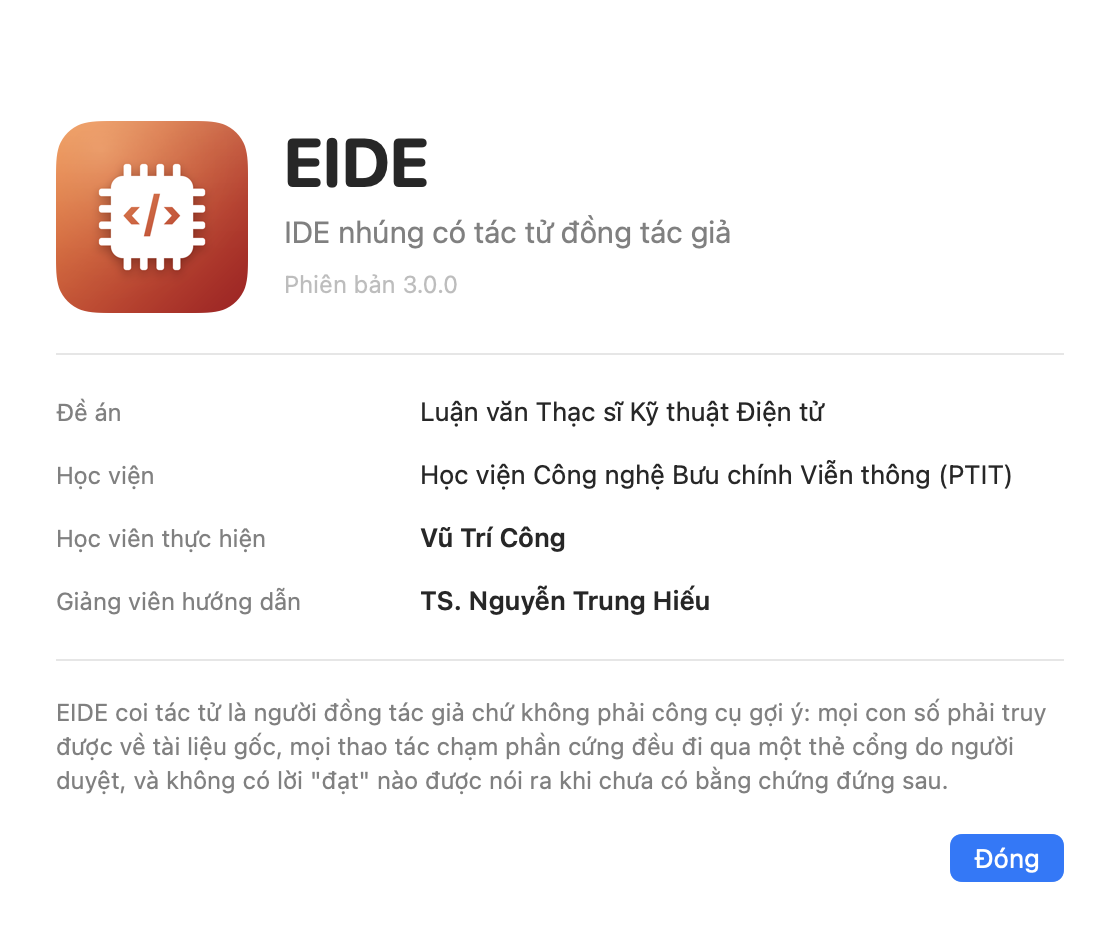
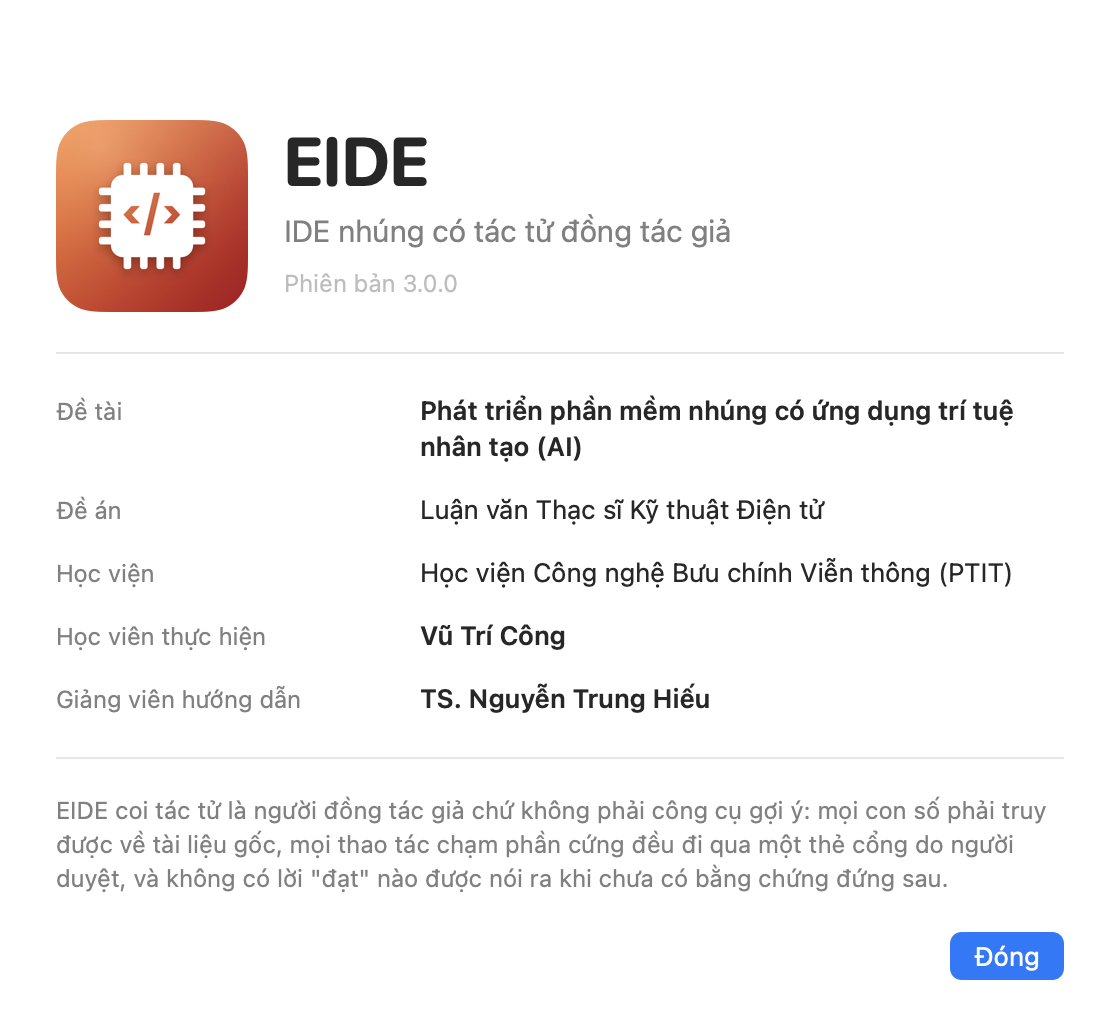
Tên đề tài vào toàn bộ hồ sơ: "Phát triển phần mềm nhúng có ứng dụng trí tuệ nhân tạo (AI)"
Bo mạch đã mang tên này từ trước (firmware/ui.c hiện nó trên màn LCD). Thứ tụt
lại là hồ sơ trong git: README, chín tài liệu thiết kế, bảng Giới thiệu của app,
Info.plist — 15 chỗ, mỗi chỗ một dạng phù hợp.

Bản chụp firmware trong docs/ đã cũ đúng chỗ quan trọng: nó còn giữ tên đề tài
trước ("Nghien cuu & Trien khai EIDE Agent tren Bo STM32F469I-Discovery") và một
lỗi chính tả đã sửa trên bo (DO AN → DE AN TOT NGHIEP). Đây đúng loại lệch mà
du-lieu/ bị gitignore sinh ra: thứ chạy thật và thứ được cất giữ trôi khỏi nhau
trong im lặng. Đã chép lại từ chính mã đang chạy, kèm mach.bin hiện tại.

Một chỗ tự quyết: anh viết "NHÂN TẠO(AI)" dính; trong hồ sơ tôi viết "nhân tạo
(AI)" có dấu cách theo lối thường của tiếng Việt. Muốn giữ dạng dính thì sửa một
lệnh.

1252 ca đơn vị. Bộ dò tài liệu: 0 chỗ lệch chắc chắn.

diff --git a/ui/EIDEApp/Sources/EIDE/Views/GioiThieuView.swift b/ui/EIDEApp/Sources/EIDE/Views/GioiThieuView.swift
@@ -39,6 +39,7 @@ struct GioiThieuView: View {
             Divider()
 
             VStack(alignment: .leading, spacing: 14) {
+                dong_muc("Đề tài", "Phát triển phần mềm nhúng có ứng dụng trí tuệ nhân tạo (AI)", nhan_manh: true)
                 dong_muc("Đề án", "Luận văn Thạc sĩ Kỹ thuật Điện tử")
                 dong_muc("Học viện", "Học viện Công nghệ Bưu chính Viễn thông (PTIT)")
                 dong_muc("Học viên thực hiện", "Vũ Trí Công", nhan_manh: true)

diff --git a/docs/stm32f469-freertos/firmware-chay-duoc/ui.c b/docs/stm32f469-freertos/firmware-chay-duoc/ui.c
@@ -91,13 +91,13 @@ void UI_ShowMainScreen(void)
 
     BSP_LCD_SetTextColor(LCD_COLOR_DARKBLUE);
     BSP_LCD_SetFont(&Font20);
-    BSP_LCD_DisplayStringAt(300, 130, (uint8_t *)"DO AN TOT NGHIEP", LEFT_MODE);
+    BSP_LCD_DisplayStringAt(300, 130, (uint8_t *)"DE AN TOT NGHIEP", LEFT_MODE);
     BSP_LCD_DisplayStringAt(300, 160, (uint8_t *)"HE THONG TAC TU EIDE v3", LEFT_MODE);
 
     BSP_LCD_SetTextColor(LCD_COLOR_BLACK);
     BSP_LCD_SetFont(&Font16);
-    BSP_LCD_DisplayStringAt(300, 210, (uint8_t *)"DT: Nghien cuu & Trien khai EIDE Agent", LEFT_MODE);
-    BSP_LCD_DisplayStringAt(300, 240, (uint8_t *)"tren Bo STM32F469I-Discovery", LEFT_MODE);
+    BSP_LCD_DisplayStringAt(300, 210, (uint8_t *)"DT: PHAT TRIEN PHAN MEM NHUNG", LEFT_MODE);
+    BSP_LCD_DisplayStringAt(300, 240, (uint8_t *)"CO UNG DUNG TRI TUE NHAN TAO(AI)", LEFT_MODE);
     BSP_LCD_DisplayStringAt(300, 280, (uint8_t *)"Hoc vien  : Vu Tri Cong", LEFT_MODE);
     BSP_LCD_DisplayStringAt(300, 310, (uint8_t *)"GVHD      : TS. Nguyen Trung Hieu", LEFT_MODE);
 

diff --git a/docs/md/EIDE-DEV-LOG.md b/docs/md/EIDE-DEV-LOG.md
@@ -4878,3 +4878,43 @@ nào đang mở thì chưa có lõi nào đang chạy để mà gửi `HumanAct`
 
 `1252 ca đơn vị` (+6): `tests/test_goi_du_an.py`. Gồm ca cho con lặp tự-gói-chính-mình, ca
 chặn `../` thoát ra ngoài, và ca từ chối nhập đè lên một dự án đang có.
+
+### [DEV-299] 29/09/2026 · Tên đề tài vào toàn bộ hồ sơ
+
+**Tên đề tài:** *Phát triển phần mềm nhúng có ứng dụng trí tuệ nhân tạo (AI)*
+
+Bo mạch **đã mang tên này** từ trước — `firmware/ui.c` hiện `DT: PHAT TRIEN PHAN MEM NHUNG /
+CO UNG DUNG TRI TUE NHAN TAO(AI)` trên màn LCD. Thứ tụt lại là hồ sơ trong git: README, chín
+tài liệu thiết kế, bảng Giới thiệu của app, và `Info.plist`.
+
+Đưa vào **15 chỗ**, mỗi chỗ một dạng phù hợp: README có dòng riêng; tài liệu thiết kế thêm một
+hàng `**Đề tài**` ngay trên hàng `**Khung**`; bảng Giới thiệu có một dòng in đậm đứng đầu;
+`Info.plist` ghi trong `NSHumanReadableCopyright`.
+
+#### Bản chụp firmware trong `docs/` đã cũ, và cũ đúng chỗ quan trọng
+
+`docs/stm32f469-freertos/firmware-chay-duoc/ui.c` vẫn giữ tên đề tài **trước đó**:
+
+```
+-   "DT: PHAT TRIEN PHAN MEM NHUNG"          ← đang chạy trên bo
+-   "CO UNG DUNG TRI TUE NHAN TAO(AI)"
++   "DT: Nghien cuu & Trien khai EIDE Agent"  ← bản chụp trong git
++   "tren Bo STM32F469I-Discovery"
+```
+
+Và cả một lỗi chính tả đã sửa trên bo mà bản chụp còn giữ: `DO AN TOT NGHIEP` → `DE AN TOT
+NGHIEP`.
+
+Đây đúng loại lệch mà `du-lieu/` bị gitignore sinh ra: thứ chạy thật và thứ được cất giữ trôi
+khỏi nhau trong im lặng. Bản chụp mới chép từ chính mã đang chạy, kèm `mach.bin` hiện tại.
+
+#### Một chỗ tôi tự quyết, nói ra để anh sửa nếu không đúng ý
+
+Anh viết `TRÍ TUỆ NHÂN TẠO(AI)` — dính, không dấu cách. Trên màn LCD cũng vậy, nhưng ở đó là
+phông cố định và chỗ hẹp. Trong hồ sơ tôi viết **`trí tuệ nhân tạo (AI)`** có dấu cách, theo
+lối thường của tiếng Việt. Nếu anh muốn giữ đúng dạng dính thì nói, sửa một lệnh.
+
+### Số đo
+
+`1252 ca đơn vị` (không đổi — chặng này là hồ sơ). Bộ dò tài liệu: **0 chỗ lệch chắc chắn**.
+Bảng Giới thiệu đã chụp lại bằng chính app: `docs/anh/gioi-thieu-eide.png`.

diff --git a/docs/md/EIDE-ING-43_Duong_ong_Nap_Tai_lieu_va_Trich_xuat.md b/docs/md/EIDE-ING-43_Duong_ong_Nap_Tai_lieu_va_Trich_xuat.md
@@ -9,6 +9,7 @@
 | **Mã tài liệu**   | EIDE-ING-43 (Ingest & Extraction) v1.0                                                                                                                                                                                                                                    |
 | **Quan hệ**       | Chi tiết hoá mục C3 "Luồng nạp tài liệu và phê duyệt" và công cụ ingest.file / fact.extract của MDD-40 v3.0; sửa lỗi bỏ sót định dạng Office (docx/xlsx/pptx) và các định dạng EDA/vendor; bổ sung yêu cầu ING-01…ING-20 vào danh mục yêu cầu và khối A3.6 vào mô hình UI |
 | **Ngày**          | 25/09/2026                                                                                                                                                                                                                                                                |
+| **Đề tài**          | PHÁT TRIỂN PHẦN MỀM NHÚNG CÓ ỨNG DỤNG TRÍ TUỆ NHÂN TẠO (AI)                                |
 | **Khung**         | Đề án tốt nghiệp Thạc sĩ ngành Kỹ thuật Điện tử — PTIT · Người hướng dẫn: TS. Nguyễn Trung Hiếu                                                                                                                                                                           |
 | **Tác giả**       | Vũ Trí Công                                                                                                                                                                                                                                                               |
 | **Bằng chứng đo** | TC010 (không tìm được datasheet), TC011 (hai phiên bản), TC014 (prompt injection trong tài liệu), TC023/025/026 (netlist/Altium/tệp hỏng bị nhận là tệp nén), TC044 (scan mờ), TC062 (BOM ≠ netlist), TC070 (script)                                                      |

diff --git a/docs/md/EIDE-MEM-42_Quan_ly_Bo_nho_va_Nen_Bo_nho.md b/docs/md/EIDE-MEM-42_Quan_ly_Bo_nho_va_Nen_Bo_nho.md
@@ -9,6 +9,7 @@ Năm tầng bộ nhớ · ngân sách ngữ cảnh · quản lý theo lượt ·
 | **Mã tài liệu**    | EIDE-MEM-42 (Memory Architecture & Compaction) v1.0                                                                                                                                                                                   |
 | **Quan hệ**        | Chi tiết hoá và thay thế mục B6 "Bộ nhớ và nén ngữ cảnh" của EIDE-MDD-40 v3.0; bổ sung yêu cầu MEM-01…MEM-24 vào danh mục yêu cầu và khối A14.6 vào mô hình UI (ui_model.py)                                                          |
 | **Ngày**           | 25/09/2026                                                                                                                                                                                                                            |
+| **Đề tài**          | PHÁT TRIỂN PHẦN MỀM NHÚNG CÓ ỨNG DỤNG TRÍ TUỆ NHÂN TẠO (AI)                                |
 | **Khung**          | Đề án tốt nghiệp Thạc sĩ ngành Kỹ thuật Điện tử — PTIT · Người hướng dẫn: TS. Nguyễn Trung Hiếu                                                                                                                                       |
 | **Tác giả**        | Vũ Trí Công                                                                                                                                                                                                                           |
 | **Bằng chứng đo**  | TC074 (ngữ cảnh dài quên quyết định), TC065 (previous_session.summary = null), TC028 (repo \> 500 tệp), TC008 (mô hình tự mô tả dự án → REQ bịa), TC006 (đổi yêu cầu giữa chừng), TC043 (không tất định), TC072/073 (sự cố giữa lượt) |

diff --git a/docs/md/EIDE-HIER-45_Mo_hinh_Cay_khoi_Phan_cap.md b/docs/md/EIDE-HIER-45_Mo_hinh_Cay_khoi_Phan_cap.md
@@ -11,6 +11,7 @@ Mạch → khối → khối con → linh kiện (lá) · Port ở biên khối 
 | **Quan hệ**                              | Thay thế định nghĩa Module/Net trong MDD-40 C2; bổ sung E2 (hiện vật "Cây khối"), E5.4 (STALE theo cây); SCH-44 §4 bố cục và hierarchical sheet dựng từ cây này; ING-43 §4.4 đọc .kicad_sch phân cấp về cây. Yêu cầu HIER-01…HIER-18; khối UI A5.1 mở rộng |
 | **Tương thích ngược**                    | Cột parent_id/kind nullable; module cũ = kind=block, parent=board mặc định; net cũ = scope=board; netlist phẳng hiện có = flatten(cây) → mọi tool cũ (board.check, bom.build, diagram.render, sim, target) không đổi                                       |
 | **Ngày**                                 | 26/09/2026                                                                                                                                                                                                                                                 |
+| **Đề tài**          | PHÁT TRIỂN PHẦN MỀM NHÚNG CÓ ỨNG DỤNG TRÍ TUỆ NHÂN TẠO (AI)                                |
 | **Khung**                                | Đề án tốt nghiệp Thạc sĩ ngành Kỹ thuật Điện tử — PTIT · Người hướng dẫn: TS. Nguyễn Trung Hiếu                                                                                                                                                            |
 | **Tác giả**                              | Vũ Trí Công                                                                                                                                                                                                                                                |
 

diff --git a/docs/review-v3/docs/md/EIDE-MDD-40_v3.0_Thiet_ke_Tong_the.md b/docs/review-v3/docs/md/EIDE-MDD-40_v3.0_Thiet_ke_Tong_the.md
@@ -12,6 +12,7 @@ Nguyên tắc · Kiến trúc vòng lặp · Nền tri thức · Giao thức gia
 | **Thay thế**        | EIDE-AGD-32 v1.0, EIDE-AAD-33 v1.0/v2.0, EIDE-UIP-34 v1.0 — nội dung được hợp nhất, sửa và bổ sung trong tài liệu này; các tài liệu cũ chỉ còn giá trị tham khảo lịch sử                         |
 | **Ngày**            | 25/09/2026                                                                                                                                                                                       |
 | **Dự án**           | EIDE — Embedded IDE có tác tử (github.com/mobiluckvn/EIDE)                                                                                                                                       |
+| **Đề tài**          | PHÁT TRIỂN PHẦN MỀM NHÚNG CÓ ỨNG DỤNG TRÍ TUỆ NHÂN TẠO (AI)                                |
 | **Khung**           | Đề án tốt nghiệp Thạc sĩ ngành Kỹ thuật Điện tử — PTIT                                                                                                                                           |
 | **Người hướng dẫn** | TS. Nguyễn Trung Hiếu                                                                                                                                                                            |
 | **Tác giả**         | Vũ Trí Công                                                                                                                                                                                      |

diff --git a/docs/review-v3/docs/md/EIDE-AAD-33_v2.0_Kien_truc_Tac_tu_theo_Vong_lap.md b/docs/review-v3/docs/md/EIDE-AAD-33_v2.0_Kien_truc_Tac_tu_theo_Vong_lap.md
@@ -10,6 +10,7 @@
 | **Tên tài liệu**       | Kiến trúc tác tử Kỹ sư Nhúng theo vòng lặp tác tử (agent loop) — LLM tham gia sâu vào mọi tương tác                                                                                                      |
 | **Phiên bản**          | v2.0 — thay thế AAD-33 v1.0 (máy trạng thái S0–S6). Áp dụng cho EIDE v1.4                                                                                                                                |
 | **Ngày**               | 25/09/2026                                                                                                                                                                                               |
+| **Đề tài**          | PHÁT TRIỂN PHẦN MỀM NHÚNG CÓ ỨNG DỤNG TRÍ TUỆ NHÂN TẠO (AI)                                |
 | **Khung**              | Đề án tốt nghiệp Thạc sĩ ngành Kỹ thuật Điện tử — PTIT                                                                                                                                                   |
 | **Người hướng dẫn**    | TS. Nguyễn Trung Hiếu                                                                                                                                                                                    |
 | **Tác giả**            | Vũ Trí Công                                                                                                                                                                                              |

diff --git a/docs/review-v3/docs/md/EIDE-AAD-33_Kien_truc_Tac_tu_Ky_su_Nhung_v1.0.md b/docs/review-v3/docs/md/EIDE-AAD-33_Kien_truc_Tac_tu_Ky_su_Nhung_v1.0.md
@@ -11,6 +11,7 @@
 | **Phiên bản**          | v1.0 — áp dụng cho sản phẩm EIDE v1.4                                                                                                                                                       |
 | **Ngày**               | 24/09/2026                                                                                                                                                                                  |
 | **Dự án**              | EIDE — Embedded IDE có tác tử (github.com/mobiluckvn/EIDE)                                                                                                                                  |
+| **Đề tài**          | PHÁT TRIỂN PHẦN MỀM NHÚNG CÓ ỨNG DỤNG TRÍ TUỆ NHÂN TẠO (AI)                                |
 | **Khung**              | Đề án tốt nghiệp Thạc sĩ ngành Kỹ thuật Điện tử — PTIT                                                                                                                                      |
 | **Người hướng dẫn**    | TS. Nguyễn Trung Hiếu                                                                                                                                                                       |
 | **Tác giả**            | Vũ Trí Công                                                                                                                                                                                 |

diff --git a/docs/review-v3/docs/md/EIDE-AGD-32_Thiet_ke_Tac_tu_Ky_su_Nhung_v1.4.md b/docs/review-v3/docs/md/EIDE-AGD-32_Thiet_ke_Tac_tu_Ky_su_Nhung_v1.4.md
@@ -11,6 +11,7 @@
 | **Phiên bản**        | v1.0 (thiết kế sản phẩm EIDE v1.4)                                                                                                                      |
 | **Ngày**             | 24/09/2026                                                                                                                                              |
 | **Dự án**            | EIDE — Embedded IDE với tác tử hỗ trợ kỹ sư nhúng (github.com/mobiluckvn/EIDE)                                                                          |
+| **Đề tài**          | PHÁT TRIỂN PHẦN MỀM NHÚNG CÓ ỨNG DỤNG TRÍ TUỆ NHÂN TẠO (AI)                                |
 | **Khung**            | Đề án tốt nghiệp Thạc sĩ ngành Kỹ thuật Điện tử — PTIT                                                                                                  |
 | **Người hướng dẫn**  | TS. Nguyễn Trung Hiếu                                                                                                                                   |
 | **Tác giả**          | Vũ Trí Công                                                                                                                                             |

diff --git a/docs/review-v3/docs/md/EIDE-UIP-34_Giao_thuc_Dieu_khien_Giao_dien_v1.0.md b/docs/review-v3/docs/md/EIDE-UIP-34_Giao_thuc_Dieu_khien_Giao_dien_v1.0.md
@@ -10,6 +10,7 @@
 | **Tên tài liệu**       | Giao thức điều khiển giao diện của tác tử — UI-as-Actuator Protocol (UAP) v1                                                  |
 | **Phiên bản**          | v1.0 — áp dụng cho EIDE v1.4                                                                                                  |
 | **Ngày**               | 24/09/2026                                                                                                                    |
+| **Đề tài**          | PHÁT TRIỂN PHẦN MỀM NHÚNG CÓ ỨNG DỤNG TRÍ TUỆ NHÂN TẠO (AI)                                |
 | **Khung**              | Đề án tốt nghiệp Thạc sĩ ngành Kỹ thuật Điện tử — PTIT                                                                        |
 | **Người hướng dẫn**    | TS. Nguyễn Trung Hiếu                                                                                                         |
 | **Tác giả**            | Vũ Trí Công                                                                                                                   |
